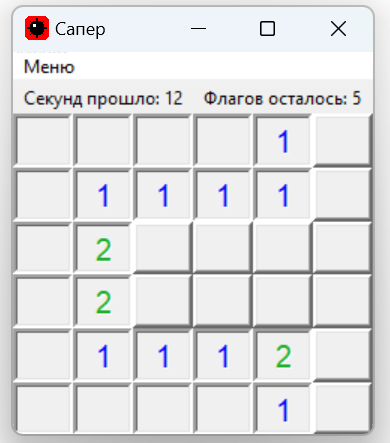
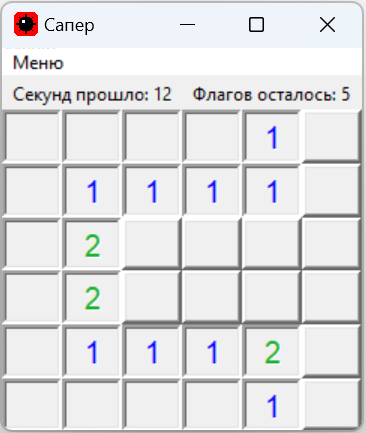
Latest version

diff --git a/MineSweeper.py b/MineSweeper.py
@@ -67,6 +67,7 @@ class FieldButton(Button):
 
 class MineSweeper:
     win = Tk()
+    win.resizable(False, False)
     win.title('Сапер')
     photo = PhotoImage(file='images/MS_icon.png')
     win.iconphoto(False, photo)
@@ -343,7 +344,6 @@ class MineSweeper:
             self.time_start = time.time()
             self.insert_mines(clicked_button.number)
             self.count_mines_buttons()
-            # self.print_mines()
             self.tick()
             self.IS_FIRST_CLICK = False
 
@@ -476,5 +476,6 @@ class MineSweeper:
         self.win.mainloop()
 
 
-game = MineSweeper()
-game.start()
+if __name__ == "__main__":
+    game = MineSweeper()
+    game.start()
